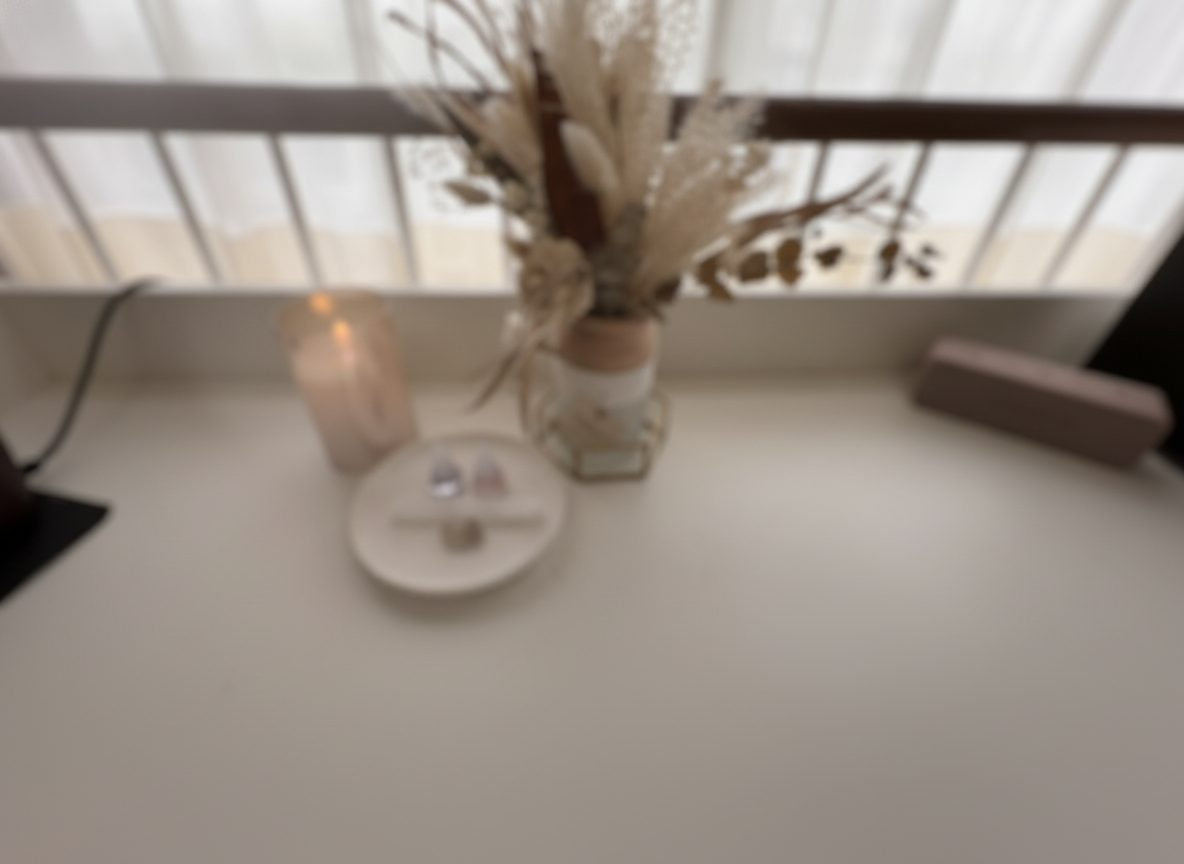
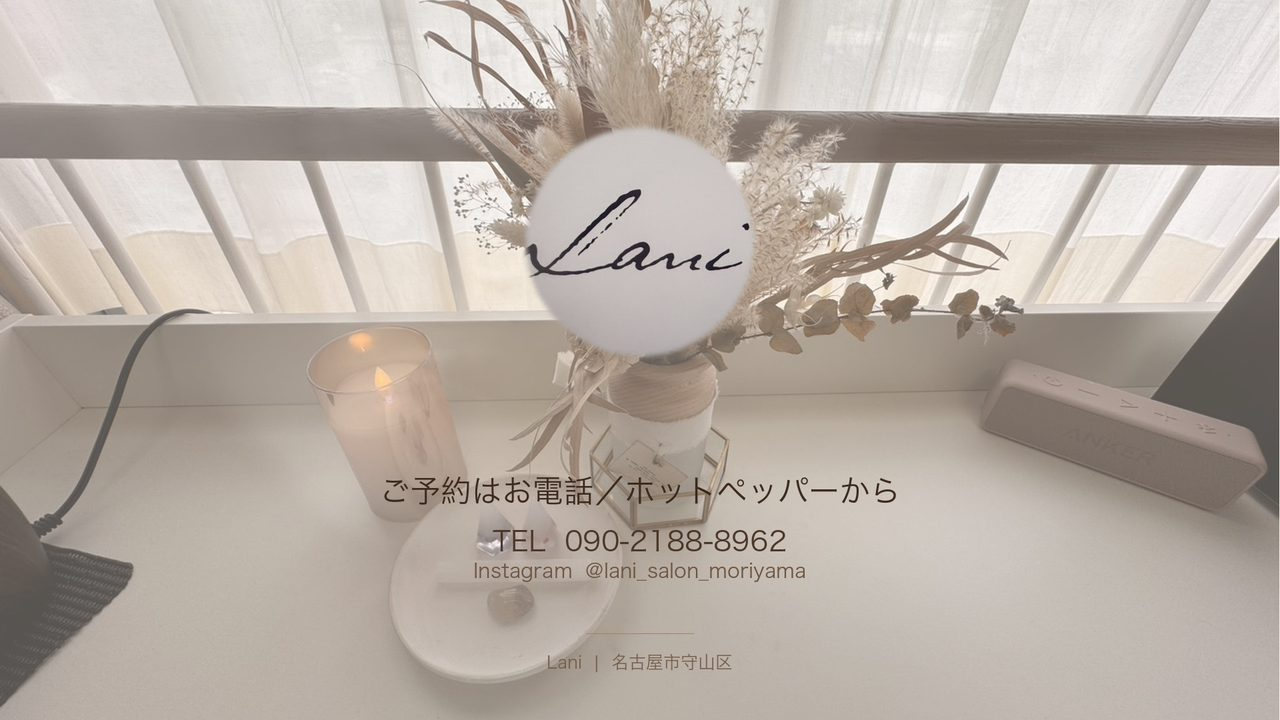
Lani v6: S12エンドカードに実物Laniロゴ＋CTA合成済みプレビュー

diff --git a/lani-storyboard.html b/lani-storyboard.html
@@ -2,7 +2,7 @@
 <html lang="ja">
 <head>
 <meta charset="UTF-8">
-<title>Lani — AI動画 v5 ストーリーボード</title>
+<title>Lani — AI動画 v6 ストーリーボード</title>
 <style>
   :root{ --bg:#1a1815; --ink:#f3ece2; --ink2:#c8bba8; --accent:#c69b7b; --hook:#d4af6c; --card:#252220; --line:#3a342e; }
   *{box-sizing:border-box;margin:0;padding:0}
@@ -40,7 +40,7 @@
 </head>
 <body>
 <header>
-  <h1>AI動画 v5 ストーリーボード — <span class="brand">Lani（ラニ）</span><span class="ver">v5 / 2026-05-30</span></h1>
+  <h1>AI動画 v6 ストーリーボード — <span class="brand">Lani（ラニ）</span><span class="ver">v6 / 2026-05-31</span></h1>
   <div class="meta">
     <span>業態：<b>フェイシャルエステサロン</b>（名古屋市守山区）</span>
     <span>尺：<b>約65秒</b>（HOOK 5秒＋本編 56秒＋実証 4秒）</span>
@@ -54,13 +54,12 @@
   </div>
 </header>
 
-<h2>🎯 v5の変更点（v3→v5）</h2>
+<h2>🎯 v6の変更点（v5→v6）</h2>
 <div class="points">
   <ul>
-    <li><b>S07a「実証 Real Result」新規追加</b>：クライアントからご共有いただいた HerbJapan Before/After 集（11枚）の中から、Laniの上品な世界観に合う2例を厳選して montage化。施術シーン(S07)直後に4秒挿入＝説得力強化（ハーブピーリングの効果を実証）</li>
-    <li><b>派手NG指示厳守</b>：infomercial風の派手なBefore/After比較ではなく、白フレーム＋クリーム背景＋上品な余白の高級スキンケアブランド誌面風treatement</li>
-    <li>v3の成果（HOOK1共感型・全シーン受領素材ハイブリッド・松井さん寄せS04/S09＝※松井案件のため誤記訂正：Lani関連の全シーン実写ハイブリッド合成）は維持</li>
-    <li>合計：HOOK 5秒＋本編 56秒＋実証 4秒 = 約65秒</li>
+    <li><b>S12エンドカードに実物Laniロゴを合成</b>：サロン入口看板写真からハンガー除去で円形クリーン化した透過PNG（_受領素材/lani_logo_clean.png 417×417）をエンドカード中央上に重ね合成。CTA文（電話・ホッペ・Instagram）も上品配置で実物プレビュー化</li>
+    <li>v5の成果（S07a実証 Real Result／全シーン実写ハイブリッド／HOOK1共感型）は維持</li>
+    <li>尺・構成は変更なし（HOOK 5秒＋本編 56秒＋実証 4秒 = 約65秒）</li>
   </ul>
 </div>
 
@@ -80,7 +79,7 @@
   <div class="card hybrid"><div class="ph" id="ph-S09_after_glow">S09</div><div class="body"><span class="scene">S09 仕上がり・ツヤ肌</span><span class="time">0:48–0:53</span><div class="telop empty">（テロップなし）</div><div class="desc">受領の施術室をぼかしで背景に、ツヤ肌クローズアップ</div><div class="motion">▶ 肌に光／微笑み／静かに寄る</div></div></div>
   <div class="card hybrid"><div class="ph" id="ph-S10_after_tea">S10</div><div class="body"><span class="scene">S10 アフターティー＋物販</span><span class="time">0:53–0:57</span><div class="telop empty">（任意）物販もご用意</div><div class="desc">受領のラウンジソファ＋窓を背景に、ハーブティー＋物販を上品に</div><div class="motion">▶ 湯気がゆれる／商品にピント送り</div></div></div>
   <div class="card hybrid"><div class="ph" id="ph-S11_farewell_bow">S11</div><div class="body"><span class="scene">S11 お見送り</span><span class="time">0:57–1:01</span><div class="telop empty">（テロップなし）</div><div class="desc">受領の玄関写真を背景に、モデルが穏やかに会釈</div><div class="motion">▶ 会釈／光がふんわり</div></div></div>
-  <div class="card hybrid"><div class="ph" id="ph-S12_end_card_bg">S12 ★</div><div class="body"><span class="scene">S12 エンドカード・CTA</span><span class="time">1:01–1:05</span><div class="telop">Lani／ご予約はお電話／ホットペッパーから／TEL 090-2188-8962</div><div class="desc">受領のパンパスグラス窓辺を背景に、ロゴ＋連絡先用の余白を確保（後合成）</div><div class="motion">▶ 光がふんわり明滅</div></div></div>
+  <div class="card hybrid"><div class="ph" id="ph-S12_end_card_bg">S12 ★</div><div class="body"><span class="scene">S12 エンドカード・CTA</span><span class="time">1:01–1:05</span><div class="telop">Lani／ご予約はお電話／ホットペッパーから／TEL 090-2188-8962</div><div class="desc">受領のパンパスグラス窓辺を背景に、<b>実物Laniロゴ（円形クリーン版）</b>と CTA文を実合成済み</div><div class="motion">▶ 光がふんわり明滅</div></div></div>
 </div>
 
 <h2>✅ ご確認いただきたい点</h2>
